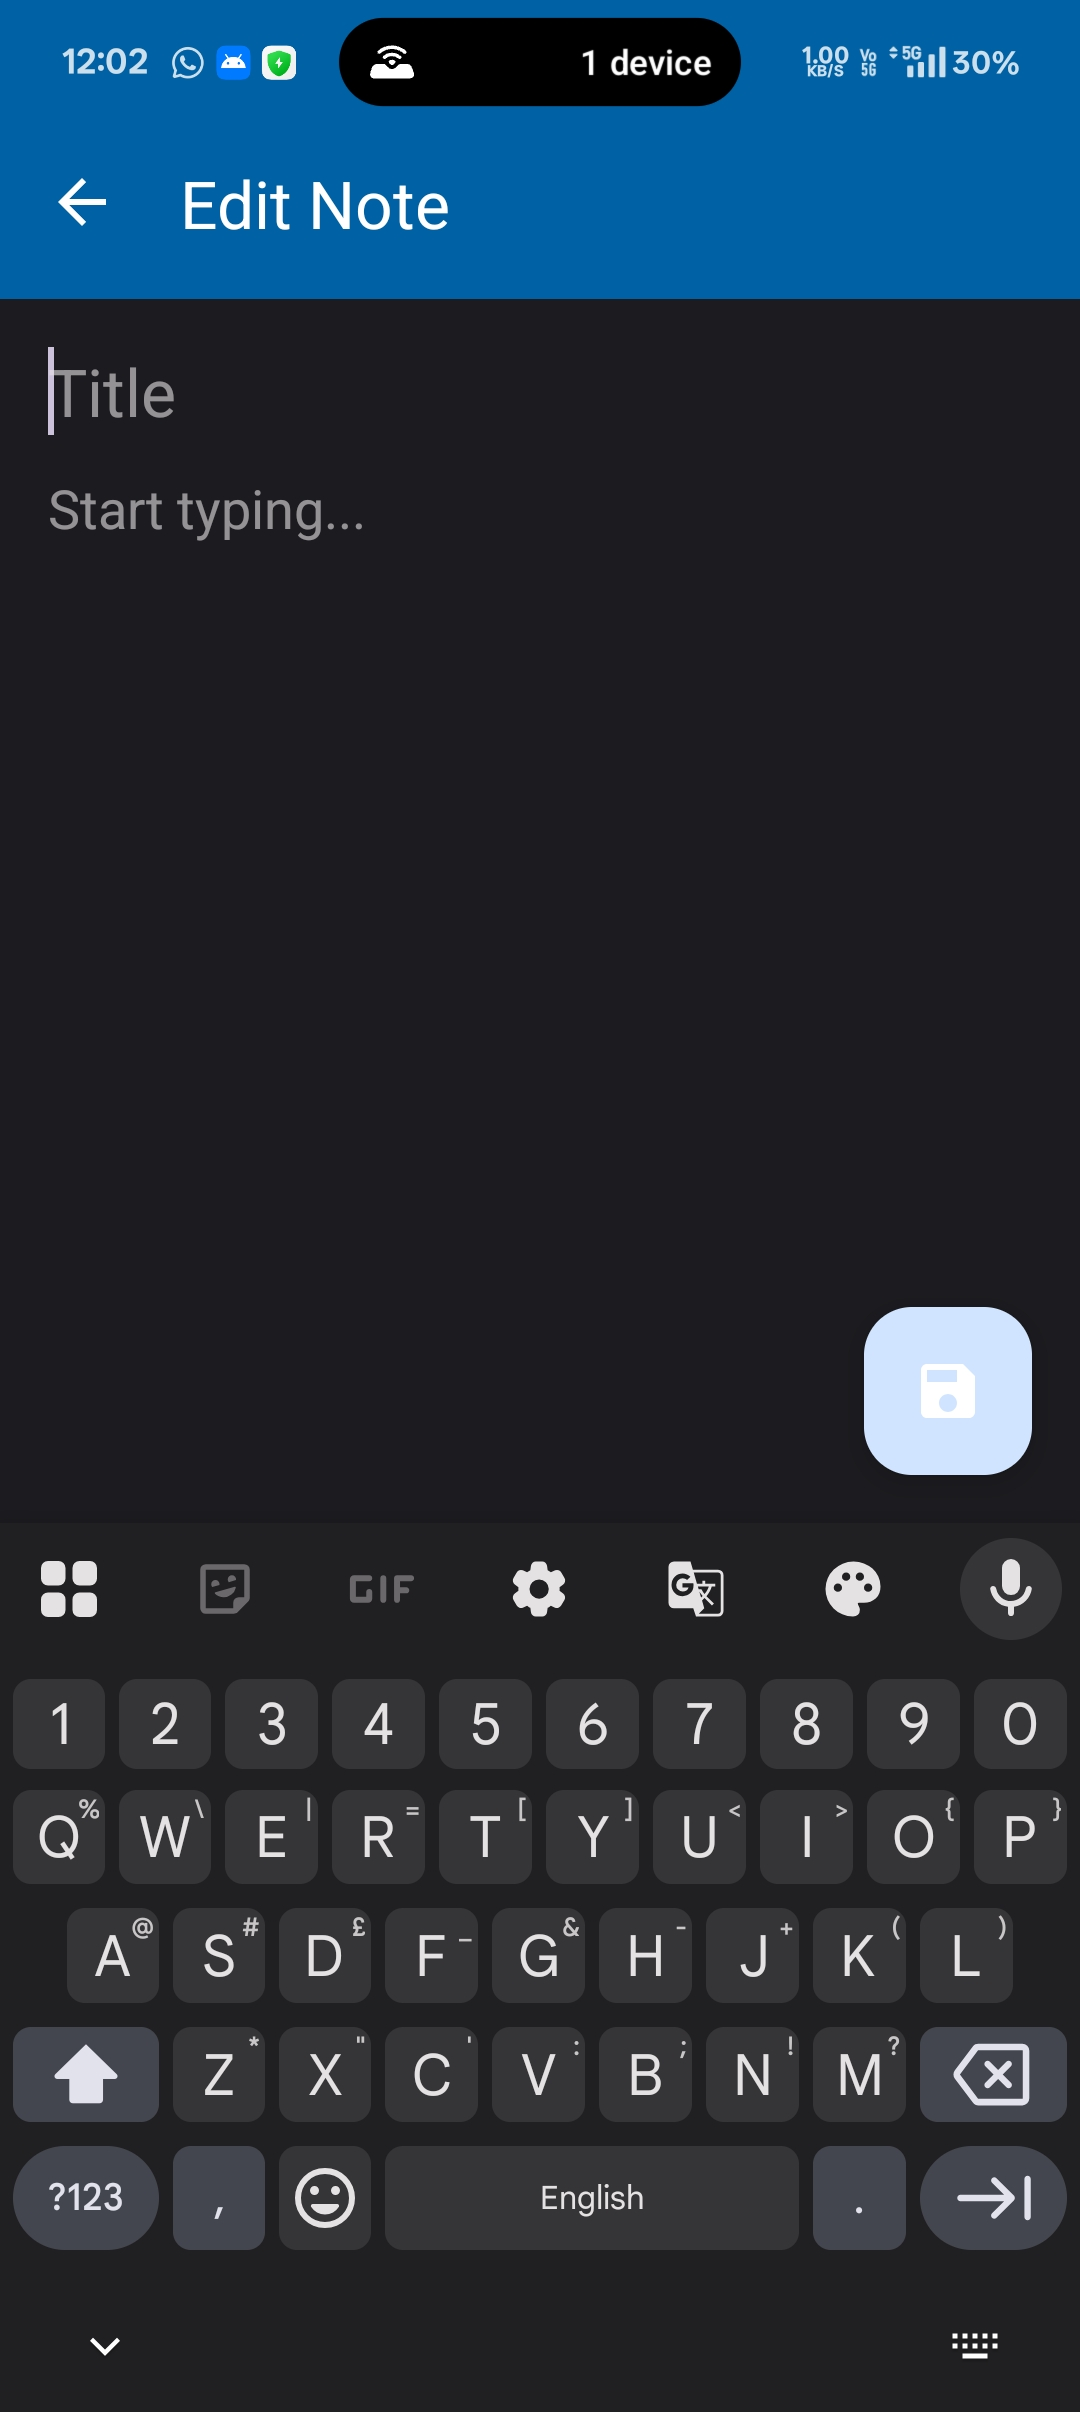
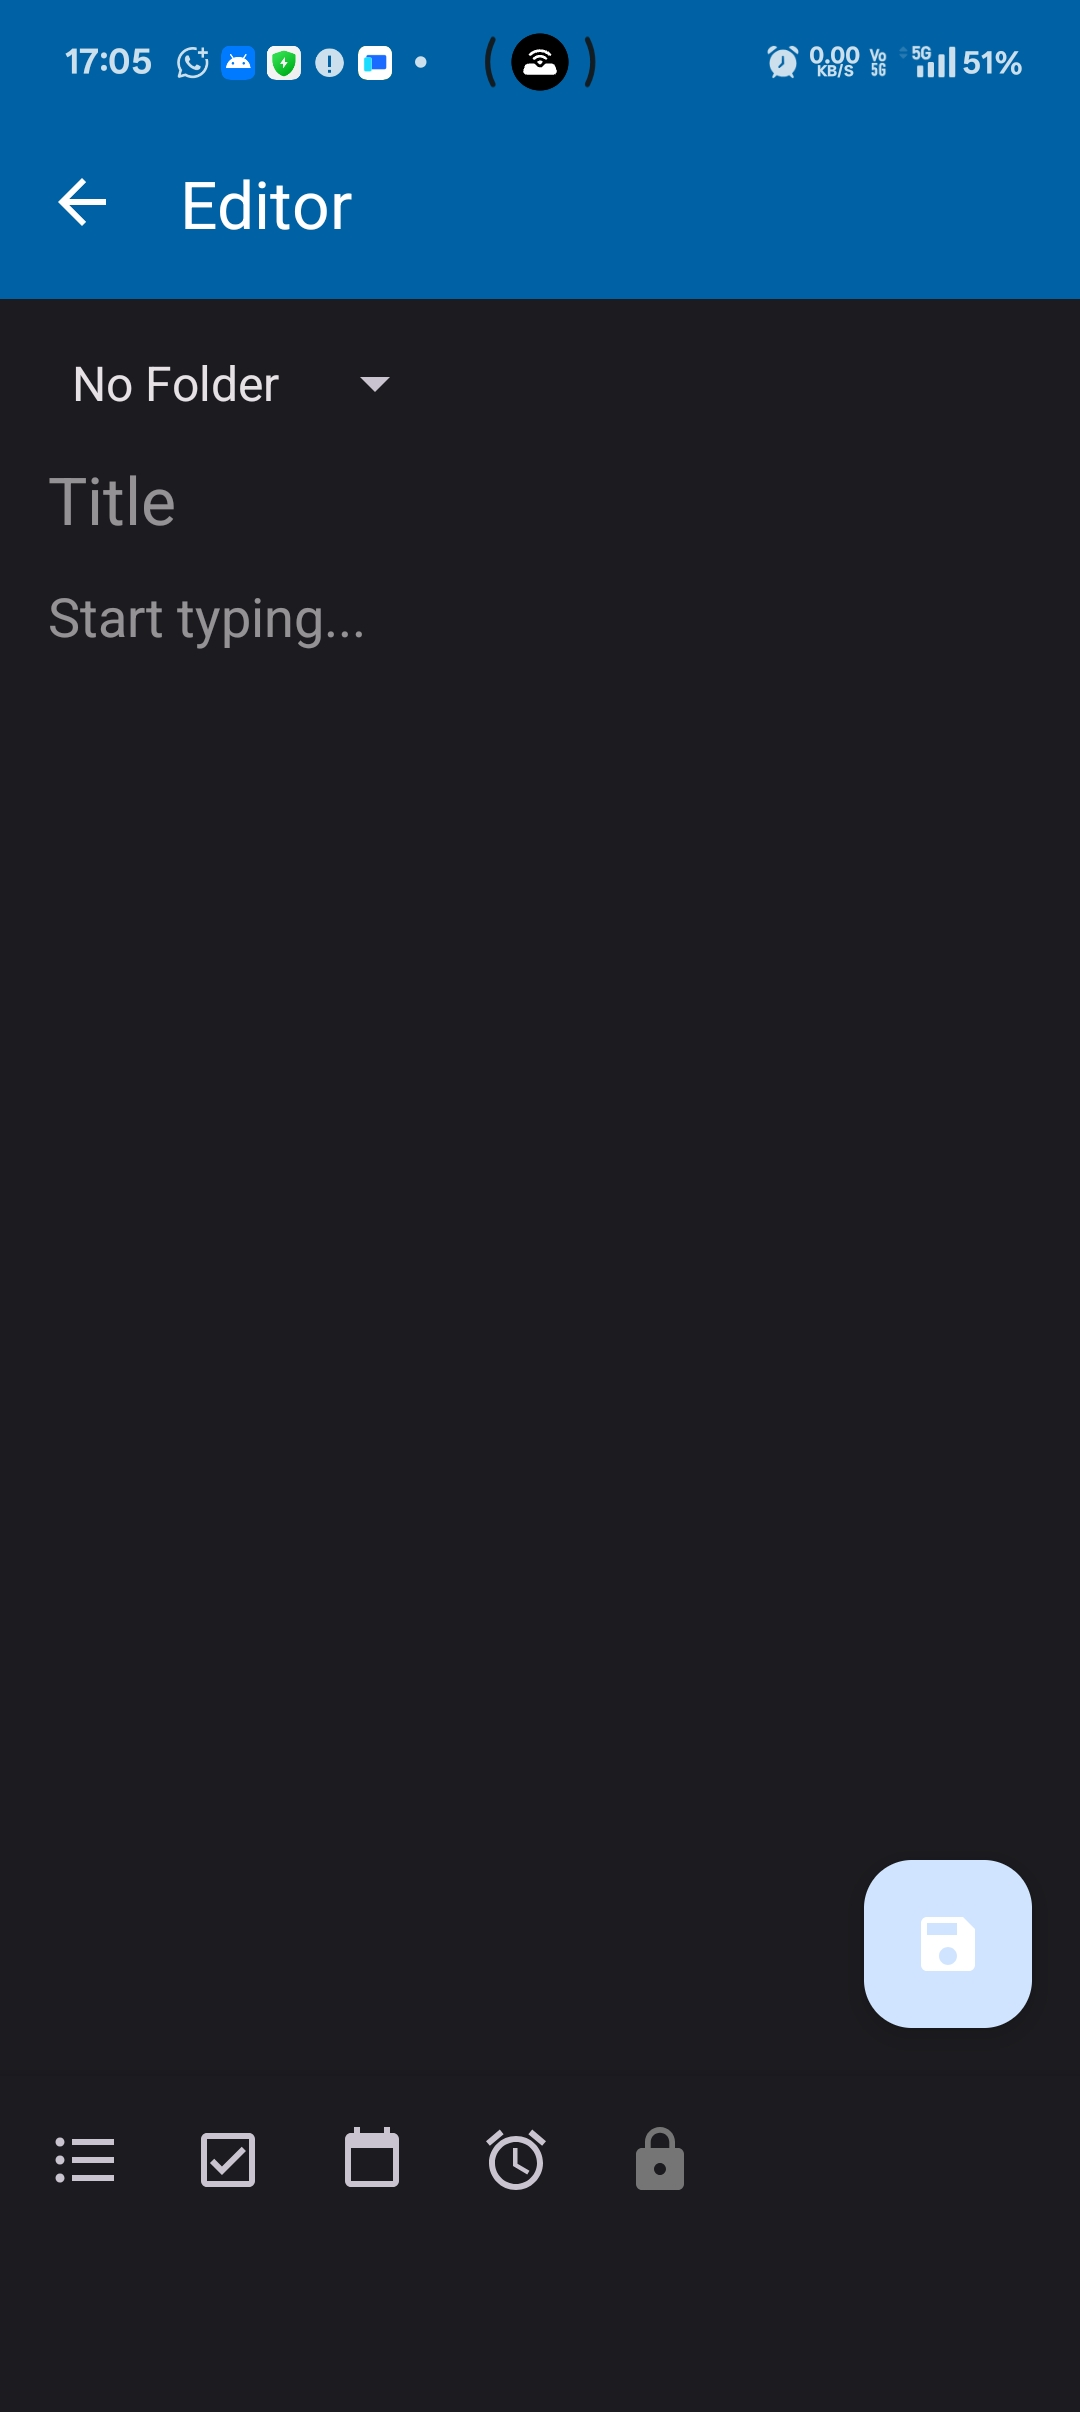
widget column alignment fix, README update

diff --git a/app/src/main/java/com/example/offlinenotes/receiver/ScheduleWidgetProvider.kt b/app/src/main/java/com/example/offlinenotes/receiver/ScheduleWidgetProvider.kt
@@ -72,7 +72,7 @@ class ScheduleWidgetProvider : AppWidgetProvider() {
     private fun buildGridUI(context: Context, views: RemoteViews, gridDataString: String) {
         views.removeAllViews(R.id.widget_grid_container)
 
-        // Detect Dark/Light Mode dynamically
+        // Dynamically detect Dark/Light Mode for the widget
         val isNightMode = (context.resources.configuration.uiMode and Configuration.UI_MODE_NIGHT_MASK) == Configuration.UI_MODE_NIGHT_YES
 
         val bgColor = if (isNightMode) Color.parseColor("#121212") else Color.parseColor("#FFFFFF")
@@ -81,39 +81,31 @@ class ScheduleWidgetProvider : AppWidgetProvider() {
         val textColor = if (isNightMode) Color.WHITE else Color.BLACK
         val titleBgColor = if (isNightMode) Color.parseColor("#00497D") else Color.parseColor("#0061A4")
 
-        // Apply theme to root and title
         views.setInt(R.id.widget_root, "setBackgroundColor", bgColor)
         views.setInt(R.id.widget_title, "setBackgroundColor", titleBgColor)
 
         try {
             val data = Gson().fromJson(gridDataString, ScheduleData::class.java)
 
-            // Limit widget grid to 4x4 so it fits cleanly
-            val maxCols = minOf(data.columns.size, 4)
-            val maxRows = minOf(data.rows.size, 4)
-
+            // Generate the Header Row
             val headerRow = RemoteViews(context.packageName, R.layout.widget_row)
             headerRow.addView(R.id.widget_row_container, createCellRemoteView(context, "", headerColor, textColor, true))
 
-            for (c in 0 until maxCols) {
-                val colName = if (c == 3 && data.columns.size > 4) "..." else data.columns[c]
+            // Iterate through ALL columns (removing the artificial limit)
+            data.columns.forEach { colName ->
                 headerRow.addView(R.id.widget_row_container, createCellRemoteView(context, colName, headerColor, textColor, true))
             }
             views.addView(R.id.widget_grid_container, headerRow)
 
-            for (r in 0 until maxRows) {
+            // Generate ALL Data Rows (removing the artificial limit)
+            data.rows.forEachIndexed { rowIndex, rowName ->
                 val dataRow = RemoteViews(context.packageName, R.layout.widget_row)
-                val rowName = if (r == 3 && data.rows.size > 4) "..." else data.rows[r]
                 dataRow.addView(R.id.widget_row_container, createCellRemoteView(context, rowName, headerColor, textColor, true))
 
-                for (c in 0 until maxCols) {
-                    if (r == 3 && data.rows.size > 4 || c == 3 && data.columns.size > 4) {
-                        dataRow.addView(R.id.widget_row_container, createCellRemoteView(context, "...", cellColor, textColor, false))
-                    } else {
-                        val key = "${r}_${c}"
-                        val content = data.cells[key] ?: ""
-                        dataRow.addView(R.id.widget_row_container, createCellRemoteView(context, content, cellColor, textColor, false))
-                    }
+                data.columns.forEachIndexed { colIndex, _ ->
+                    val key = "${rowIndex}_${colIndex}"
+                    val content = data.cells[key] ?: ""
+                    dataRow.addView(R.id.widget_row_container, createCellRemoteView(context, content, cellColor, textColor, false))
                 }
                 views.addView(R.id.widget_grid_container, dataRow)
             }

diff --git a/app/src/main/java/com/example/offlinenotes/ui/fragments/ScheduleEditorFragment.kt b/app/src/main/java/com/example/offlinenotes/ui/fragments/ScheduleEditorFragment.kt
@@ -5,6 +5,7 @@ import android.os.Bundle
 import android.text.Editable
 import android.text.InputType
 import android.text.TextWatcher
+import android.util.TypedValue
 import android.view.*
 import android.widget.Button
 import android.widget.EditText
@@ -54,7 +55,6 @@ class ScheduleEditorFragment : Fragment(), MenuProvider {
         etTitle = view.findViewById(R.id.et_schedule_title)
         tableLayout = view.findViewById(R.id.table_layout_grid)
 
-        // Force the TableLayout to stretch columns to fit evenly
         tableLayout.isStretchAllColumns = true
 
         currentSchedule = args.schedule
@@ -122,14 +122,21 @@ class ScheduleEditorFragment : Fragment(), MenuProvider {
         tv.text = text
         tv.setPadding(24, 24, 24, 24)
 
-        // FIXED: Using layout_weight=1f ensures balanced cells
         val params = TableRow.LayoutParams(0, TableRow.LayoutParams.WRAP_CONTENT, 1f)
         params.setMargins(4, 4, 4, 4)
         tv.layoutParams = params
 
+        val typedValue = TypedValue()
+        requireContext().theme.resolveAttribute(com.google.android.material.R.attr.colorOnSurface, typedValue, true)
+        tv.setTextColor(typedValue.data)
+
         if (isHeader) {
-            tv.setBackgroundColor(Color.parseColor("#E0E0E0"))
-            tv.setTextColor(Color.BLACK)
+            requireContext().theme.resolveAttribute(com.google.android.material.R.attr.colorSurfaceVariant, typedValue, true)
+            tv.setBackgroundColor(typedValue.data)
+            tv.setTypeface(null, android.graphics.Typeface.BOLD)
+        } else {
+            requireContext().theme.resolveAttribute(com.google.android.material.R.attr.colorSurface, typedValue, true)
+            tv.setBackgroundColor(typedValue.data)
         }
         return tv
     }
@@ -140,17 +147,23 @@ class ScheduleEditorFragment : Fragment(), MenuProvider {
         et.setPadding(24, 24, 24, 24)
         et.gravity = Gravity.TOP or Gravity.START
         et.inputType = InputType.TYPE_CLASS_TEXT or InputType.TYPE_TEXT_FLAG_MULTI_LINE or InputType.TYPE_TEXT_FLAG_CAP_SENTENCES
-        et.setBackgroundResource(android.R.drawable.edit_text)
         et.minLines = 2
 
-        // FIXED: Using layout_weight=1f ensures balanced cells
         val params = TableRow.LayoutParams(0, TableRow.LayoutParams.WRAP_CONTENT, 1f)
         params.setMargins(4, 4, 4, 4)
         et.layoutParams = params
 
+        val typedValue = TypedValue()
+        requireContext().theme.resolveAttribute(com.google.android.material.R.attr.colorOnSurface, typedValue, true)
+        et.setTextColor(typedValue.data)
+
         if (isHeader) {
-            et.setBackgroundColor(Color.parseColor("#F5F5F5"))
+            requireContext().theme.resolveAttribute(com.google.android.material.R.attr.colorSurfaceVariant, typedValue, true)
+            et.setBackgroundColor(typedValue.data)
             et.setTypeface(null, android.graphics.Typeface.BOLD)
+        } else {
+            requireContext().theme.resolveAttribute(com.google.android.material.R.attr.colorSurface, typedValue, true)
+            et.setBackgroundColor(typedValue.data)
         }
 
         et.addTextChangedListener(object : TextWatcher {

diff --git a/README.md b/README.md
@@ -1,58 +1,64 @@
-# Offline Notes App 📝
+# 📝 OfflineNotesApp
 
-A simple, private, offline-first notes application for Android, built as a lightweight alternative to cloud-based services like Google Keep.
-
-> **Core Philosophy:** Your notes are yours. This app is 100% offline. It has **no internet permission**, no cloud syncing, and no servers. All your data lives and dies on your device.
-
-<p align="center">
-  <img src="screenshots/notes.jpg" width="30%" alt="All Notes"/>
-  <img src="screenshots/new_note.jpg" width="30%" alt="New Note"/>
-  <img src="screenshots/edit_note.jpg" width="30%" alt="Edit Note"/>
-</p>
+A powerful, secure, and privacy-first Android note-taking application. OfflineNotesApp is designed to be completely cloud-free, keeping all your data locally on your device while offering advanced features like dynamic timetables, AES-256 encrypted vaults, and offline alarm reminders.
 
 ---
 
 ## ✨ Features
 
-### 📝 Smart Editing & Organization
-* **Rich Editor:** Create and update notes with a clean, distraction-free interface.
-* **Auto-Bullets:** The editor automatically formats new lines with bullet points for structured note-taking.
-* **CRUD Operations:** Seamlessly create, read, update, and delete notes.
-
-### 🔍 Search & Management
-* **Instant Search:** Quickly filter notes by title or content.
-    <br><img src="screenshots/search.jpg" width="30%" alt="Search">
-* **Delete Protection:** Confirmation dialogs to prevent accidental deletion.
-    <br><img src="screenshots/delete_note.jpg" width="30%" alt="Delete">
-
-### 💾 Data & Privacy
-* **100% Offline:** Uses Room Database for secure, fast, and reliable local storage.
-* **Import/Export:** Portable data! Backup your notes to a JSON file and restore them on any device.
-    <br><img src="screenshots/import_export.jpg" width="30%" alt="Import Export">
-* **Persistent:** Data is saved instantly and survives app closures and device restarts.
+* **🗂 Smart Folder Organization:** Categorize your notes effortlessly. Features horizontally scrollable folder chips, intuitive active-folder inheritance when creating new notes, and transparent note-moving upon folder deletion.
+* **✅ Advanced Bullet System:** A custom plain-text parsing engine supporting standard bullets, interactive checkboxes, and time-triggered `⏰` alarm reminders directly inside the editor.
+* **🔔 Offline Notifications:** Deep integration with Android's `AlarmManager`. Set precise reminders inside your notes that trigger rich notifications with deep-linking capabilities—no internet required.
+* **🗓 Dynamic Timetable Module:** Create and manage 2D schedule grids. The intuitive `TableLayout` editor automatically balances rows and columns for a clean look.
+* **📱 Native Home Screen Widget:** Keep your schedule at a glance. A responsive, theme-aware Android AppWidget that dynamically renders your most recent timetable directly on your launcher.
+* **🔒 Secure Vault:** Lock sensitive notes behind military-grade AES-256-GCM encryption with PBKDF2 key derivation. Your master password is never stored, and data is encrypted seamlessly on the fly.
+* **💾 Universal JSON Backups:** Complete data portability. Export and import your entire database—including standard notes, schedules, and your encrypted vault state—into a single, highly interoperable JSON file.
+* **🌗 Adaptive Theming:** Fully supports system-level Dark and Light modes using Android's Material Design `colorSurfaceVariant` architecture.
 
 ---
 
-## 🛠 Tech Stack & Architecture
+## 📸 Screenshots
 
-This project follows modern Android development best practices, emphasizing a clean and scalable architecture.
+| All Notes | Folder Filtering | Search |
+| :---: | :---: | :---: |
+| <img src="screenshots/Home.jpg" width="250"/> | <img src="screenshots/_folder.jpg" width="250"/> | <img src="screenshots/search.jpg" width="250"/> |
 
-* **Language:** **Kotlin**
-* **Architecture:** **MVVM (Model-View-ViewModel)**
-    * **Model:** `Note` entity & `NoteRepository`.
-    * **View:** `MainActivity`, `NoteListFragment`, `NoteEditorFragment`.
-    * **ViewModel:** `NoteViewModel` for UI state management.
-* **Database:** **Room Database** (SQLite)
-* **Asynchronous:** **Kotlin Coroutines** & **LiveData**
-* **Navigation:** **Jetpack Navigation Component**
-* **Serialization:** **Gson** (for JSON Import/Export)
-* **UI:** **XML Layouts** with `RecyclerView` & `StaggeredGridLayoutManager`
+| Note Editor | Advanced Alarms & Bullets | Menu & Data Management |
+| :---: | :---: | :---: |
+| <img src="screenshots/new_note.jpg" width="250"/> | <img src="screenshots/bullet_types.jpg" width="250"/> | <img src="screenshots/import_export_addFolder.jpg" width="250"/> |
+
+| Dynamic Schedules | Home Screen Widget |
+| :---: | :---: |
+| <img src="screenshots/schedules.jpg" width="250"/> | <img src="screenshots/widget.jpg" width="250"/> |
+
+| Secure Vault | Vault Authentication |
+| :---: | :---: |
+| <img src="screenshots/secure_vault.jpg" width="250"/> | <img src="screenshots/unlock_vault.jpg" width="250"/> |
 
 ---
 
-## 🚀 How to Build
+## 🛠 Technical Stack
 
-1.  **Clone** the repository.
-2.  **Open** the `OfflineNotesApp` directory in Android Studio.
-3.  Let Gradle sync all the dependencies.
-4.  **Run** the app on an emulator or a physical Android device (Android 8.0+).
+* **Language:** Kotlin
+* **Architecture:** MVVM (Model-View-ViewModel)
+* **Local Storage:** Android Room Database (SQLite)
+* **Navigation:** Android Jetpack Navigation Component
+* **Cryptography:** Java Cryptography Architecture (`javax.crypto`), AES/GCM/NoPadding
+* **Background Tasks:** `AlarmManager` & `BroadcastReceiver`
+* **Serialization:** Google Gson
+
+---
+
+## 🚀 Getting Started
+
+### Prerequisites
+* Android Studio Ladybug (or newer)
+* Android SDK 34+
+* A physical Android device or Emulator (API 24+)
+
+### Installation
+1. Clone the repository to your local machine.
+2. Open the project folder (`OfflineNotesApp`) in Android Studio.
+3. Sync the project with Gradle files.
+4. Run a **Clean Project** -> **Rebuild Project** to ensure Room auto-generates the database schemas.
+5. Click **Run** to deploy to your device.
